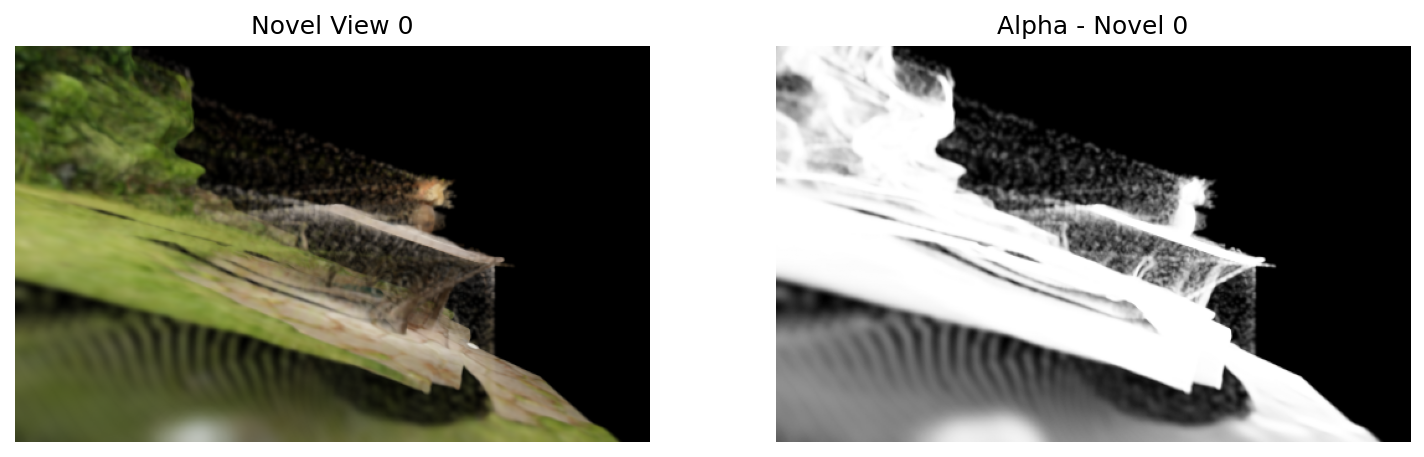
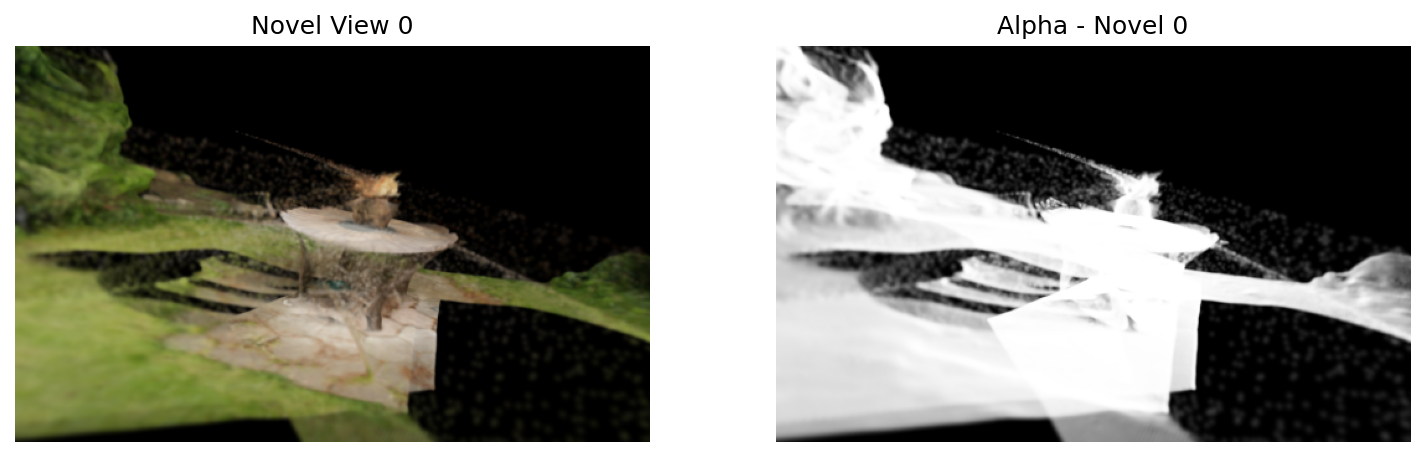
fix step1 & 2 optimization still not good but better

diff --git a/src/gaussian_trainer.py b/src/gaussian_trainer.py
@@ -91,7 +91,12 @@ class GaussianModel:
     def render_for_optim(self, w2c: torch.Tensor, K: torch.Tensor, H: int, W: int,
                           strategy: DefaultStrategy, strategy_state: dict, step: int,
                           bg_color: torch.Tensor | None = None) -> dict:
-        """Render with densification hooks for optimization."""
+        """Render with densification hooks for optimization (input views only).
+
+        Calls strategy.step_pre_backward to accumulate gradient statistics
+        for adaptive density control (splitting/cloning/pruning).
+        Only use this for input views with real ground truth.
+        """
         viewmats = w2c.unsqueeze(0).to(self.device)
         Ks = K.unsqueeze(0).to(self.device)
         backgrounds = bg_color.unsqueeze(0) if bg_color is not None else None
@@ -112,7 +117,7 @@ class GaussianModel:
             backgrounds=backgrounds,
         )
 
-        # Pre-backward hook
+        # Pre-backward hook for densification statistics
         strategy.step_pre_backward(self.params, self._optimizers, strategy_state, step, meta)
 
         return {
@@ -120,6 +125,40 @@ class GaussianModel:
             "alpha": render_alphas[0],
             "depth": render_colors[0, :, :, 3:4],
             "meta": meta,
+        }
+
+    def render_for_loss(self, w2c: torch.Tensor, K: torch.Tensor, H: int, W: int,
+                         bg_color: torch.Tensor | None = None) -> dict:
+        """Render with gradients but WITHOUT densification hooks (novel views).
+
+        Gradients flow through for loss computation, but do NOT influence
+        adaptive density control. Use this for novel views with pseudo GT
+        to prevent hallucinated content from driving Gaussian splitting/cloning.
+        """
+        viewmats = w2c.unsqueeze(0).to(self.device)
+        Ks = K.unsqueeze(0).to(self.device)
+        backgrounds = bg_color.unsqueeze(0) if bg_color is not None else None
+
+        render_colors, render_alphas, meta = rasterization(
+            means=self.params["means"],
+            quats=self.params["quats"],
+            scales=torch.exp(self.params["scales"]),
+            opacities=torch.sigmoid(self.params["opacities"]),
+            colors=self.params["colors"],
+            viewmats=viewmats,
+            Ks=Ks,
+            width=W, height=H,
+            sh_degree=None,
+            packed=True,
+            near_plane=0.01, far_plane=1000.0,
+            render_mode="RGB+D",
+            backgrounds=backgrounds,
+        )
+
+        return {
+            "image": render_colors[0, :, :, :3],
+            "alpha": render_alphas[0],
+            "depth": render_colors[0, :, :, 3:4],
         }
 
     def setup_optimizers(self, cfg: RI3DConfig) -> dict:
@@ -140,7 +179,8 @@ class GaussianModel:
             refine_stop_iter=cfg.densify_stop,
             refine_every=cfg.densify_interval,
             grow_grad2d=cfg.densify_grad_threshold,
-            verbose=False,
+            reset_every=cfg.densify_reset_every,
+            verbose=True,
         )
         self._strategy.check_sanity(self.params, self._optimizers)
         self._strategy_state = self._strategy.initialize_state(scene_scale=scene_scale)
@@ -246,7 +286,8 @@ def depth_correlation_loss(rendered_depth: torch.Tensor, mono_depth: torch.Tenso
 
 
 def reconstruction_loss(rendered: torch.Tensor, target: torch.Tensor,
-                         ssim_fn: SSIMLoss, lpips_fn: LPIPSLoss | None = None,
+                         ssim_fn: SSIMLoss | None = None,
+                         lpips_fn: LPIPSLoss | None = None,
                          cfg: RI3DConfig | None = None,
                          mask: torch.Tensor | None = None) -> torch.Tensor:
     """Combined reconstruction loss: L1 + SSIM + LPIPS.
@@ -254,6 +295,9 @@ def reconstruction_loss(rendered: torch.Tensor, target: torch.Tensor,
     Per the paper, mask M_α is applied element-wise to each loss term.
     For L1 this is straightforward. For SSIM/LPIPS (windowed losses),
     we apply the mask as a per-pixel weight on the loss maps.
+
+    If ssim_fn is None, returns L1-only loss (useful for novel views
+    where structural losses can amplify repair model hallucinations).
 
     Args:
         rendered, target: (H, W, 3) images in [0, 1]
@@ -273,21 +317,22 @@ def reconstruction_loss(rendered: torch.Tensor, target: torch.Tensor,
     else:
         l1 = F.l1_loss(rendered, target)
 
-    # SSIM and LPIPS operate on full images (windowed); masking zeros non-masked
-    # regions so they don't contribute meaningfully to the windowed loss
-    if mask is not None:
-        rendered_m = rendered * mask_3ch
-        target_m = target * mask_3ch
-    else:
-        rendered_m = rendered
-        target_m = target
+    loss = cfg.loss_l1_weight * l1
 
-    ssim = ssim_fn(rendered_m, target_m)
-    loss = cfg.loss_l1_weight * l1 + cfg.loss_ssim_weight * ssim
+    if ssim_fn is not None:
+        if mask is not None:
+            rendered_m = rendered * mask_3ch
+            target_m = target * mask_3ch
+        else:
+            rendered_m = rendered
+            target_m = target
 
-    if lpips_fn is not None:
-        lpips_val = lpips_fn(rendered_m, target_m)
-        loss = loss + cfg.loss_lpips_weight * lpips_val
+        ssim = ssim_fn(rendered_m, target_m)
+        loss = loss + cfg.loss_ssim_weight * ssim
+
+        if lpips_fn is not None:
+            lpips_val = lpips_fn(rendered_m, target_m)
+            loss = loss + cfg.loss_lpips_weight * lpips_val
 
     return loss
 

diff --git a/src/step6_stage1_optim.py b/src/step6_stage1_optim.py
@@ -152,7 +152,13 @@ def run_stage1(cfg: RI3DConfig):
     # Initialize model
     model = GaussianModel(gaussians_init, device)
     optimizers = model.setup_optimizers(cfg)
-    strategy, strategy_state = model.setup_strategy(cfg, scene_scale=1.0)
+
+    # Compute scene scale from camera positions (affects pruning thresholds)
+    cam_positions = poses[:, :3, 3]
+    scene_scale = (cam_positions - cam_positions.mean(dim=0)).norm(dim=1).mean().item()
+    scene_scale = max(scene_scale, 0.1)
+    print(f"  Scene scale: {scene_scale:.4f}")
+    strategy, strategy_state = model.setup_strategy(cfg, scene_scale=scene_scale)
 
     # Loss functions
     ssim_fn = SSIMLoss().to(device)
@@ -184,6 +190,7 @@ def run_stage1(cfg: RI3DConfig):
     print(f"\n=== Stage 1 Optimization ===")
     print(f"Input views: {n_images}, Novel views: {cfg.stage1_num_novel_views}")
     print(f"Max iters: {cfg.stage1_max_iters}, Refresh every: {cfg.stage1_refresh_interval}")
+    print(f"Densify: {cfg.densify_start}-{cfg.densify_stop}, reset every {cfg.densify_reset_every}")
 
     for step in tqdm(range(cfg.stage1_max_iters), desc="Stage 1"):
 
@@ -201,32 +208,30 @@ def run_stage1(cfg: RI3DConfig):
                         r["depth"].squeeze(-1), cfg
                     ).to(device)
 
-            # Save example renders (every other refresh)
-            if step % (cfg.stage1_refresh_interval * 2) == 0:
-                for j in range(min(3, cfg.stage1_num_novel_views)):
-                    fig, axes = plt.subplots(1, 3, figsize=(15, 5))
-                    with torch.no_grad():
-                        w2c = torch.linalg.inv(novel_c2w[j])
-                        r = model.render(w2c, K_avg, H, W)
-                    axes[0].imshow(r["image"].clamp(0,1).cpu().numpy())
-                    axes[0].set_title(f"Rendered (step {step})")
-                    axes[1].imshow(pseudo_gt[j].cpu().numpy())
-                    axes[1].set_title("Pseudo GT (repaired)")
-                    axes[2].imshow(r["alpha"].squeeze(-1).cpu().numpy(), cmap="gray")
-                    axes[2].set_title("Alpha")
-                    for ax in axes: ax.axis("off")
-                    fig.savefig(render_dir / f"step{step:05d}_novel{j}.png",
-                                dpi=120, bbox_inches="tight")
-                    plt.close(fig)
+            # Save example renders at every refresh
+            for j in range(min(3, cfg.stage1_num_novel_views)):
+                fig, axes = plt.subplots(1, 3, figsize=(15, 5))
+                with torch.no_grad():
+                    w2c = torch.linalg.inv(novel_c2w[j])
+                    r = model.render(w2c, K_avg, H, W)
+                axes[0].imshow(r["image"].clamp(0,1).cpu().numpy())
+                axes[0].set_title(f"Rendered (step {step})")
+                axes[1].imshow(pseudo_gt[j].cpu().numpy())
+                axes[1].set_title("Pseudo GT (repaired)")
+                axes[2].imshow(r["alpha"].squeeze(-1).cpu().numpy(), cmap="gray")
+                axes[2].set_title("Alpha")
+                for ax in axes: ax.axis("off")
+                fig.savefig(render_dir / f"step{step:05d}_novel{j}.png",
+                            dpi=120, bbox_inches="tight")
+                plt.close(fig)
 
         total_loss = torch.tensor(0.0, device=device)
 
-        # --- Input view loss ---
+        # --- Input view loss (with densification hooks) ---
         ref_idx = step % n_images
         w2c_ref = torch.linalg.inv(poses[ref_idx])
         K_ref = intrinsics[ref_idx]
 
-        # Use LPIPS only every 10 steps (expensive SqueezeNet forward pass)
         use_lpips = (step % 10 == 0)
         lpips_fn_or_none = lpips_fn if use_lpips else None
 
@@ -241,15 +246,17 @@ def run_stage1(cfg: RI3DConfig):
 
         total_loss = total_loss + ref_loss
 
-        # --- Novel view loss (if pseudo GT available) ---
+        # --- Novel view loss (WITHOUT densification hooks) ---
+        # Per paper Eq. 4.3: λ_j * M_α_j * L_rec(rendered_j, repaired_j)
+        # Uses render_for_loss (no strategy hooks) so pseudo GT gradients
+        # do NOT drive Gaussian splitting/cloning/pruning.
         if pseudo_gt[0] is not None:
             nov_idx = step % cfg.stage1_num_novel_views
             w2c_nov = torch.linalg.inv(novel_c2w[nov_idx])
 
-            result_nov = model.render_for_optim(w2c_nov, K_avg, H, W,
-                                                 strategy, strategy_state, step)
+            result_nov = model.render_for_loss(w2c_nov, K_avg, H, W)
 
-            # Opacity mask: only enforce loss in visible regions
+            # Opacity mask: only enforce loss in visible regions (M_α)
             alpha_mask = get_opacity_mask(result_nov["alpha"])  # (H, W)
             lambda_j = camera_weights[nov_idx]
 
@@ -260,7 +267,7 @@ def run_stage1(cfg: RI3DConfig):
             )
             total_loss = total_loss + lambda_j * nov_loss
 
-            # Opacity regularization: suppress opacity in missing background regions
+            # Opacity regularization: ||A ⊙ (1 - M_α) ⊙ M_b||₁
             bg_mask = cached_bg_masks[nov_idx]
             if bg_mask is not None:
                 opacity_reg = (

diff --git a/src/step8_stage2_optim.py b/src/step8_stage2_optim.py
@@ -159,8 +159,8 @@ def project_inpainted_to_3d(inpainted_image: torch.Tensor, missing_mask: torch.T
     if mask_flat.sum() == 0:
         return None
 
-    # Unproject missing pixels
-    pts = unproject_depth(fused, K.cpu(), c2w.cpu())  # (H*W, 3)
+    # Unproject missing pixels (all on CPU to avoid device mismatch)
+    pts = unproject_depth(fused.cpu(), K.cpu(), c2w.cpu())  # (H*W, 3)
     colors = inpainted_image.reshape(-1, 3).cpu()
 
     pts = pts[mask_flat.cpu()]
@@ -235,7 +235,12 @@ def run_stage2(cfg: RI3DConfig):
     # Initialize model from Stage 1
     model = GaussianModel(stage1_ckpt["gaussians"], device)
     optimizers = model.setup_optimizers(cfg)
-    strategy, strategy_state = model.setup_strategy(cfg, scene_scale=1.0)
+
+    # Compute scene scale from camera positions
+    cam_positions = poses[:, :3, 3]
+    scene_scale = (cam_positions - cam_positions.mean(dim=0)).norm(dim=1).mean().item()
+    scene_scale = max(scene_scale, 0.1)
+    strategy, strategy_state = model.setup_strategy(cfg, scene_scale=scene_scale)
 
     # Loss functions
     ssim_fn = SSIMLoss().to(device)
@@ -366,8 +371,7 @@ def run_stage2(cfg: RI3DConfig):
             nov_idx = step % cfg.stage2_num_novel_views
             w2c_nov = torch.linalg.inv(novel_c2w[nov_idx])
 
-            result_nov = model.render_for_optim(w2c_nov, K_avg, H, W,
-                                                 strategy, strategy_state, step)
+            result_nov = model.render_for_loss(w2c_nov, K_avg, H, W)
             lambda_j = camera_weights[nov_idx]
 
             # No visibility mask — enforce across entire image in Stage 2

diff --git a/src/config.py b/src/config.py
@@ -87,11 +87,12 @@ class RI3DConfig:
     plateau_threshold: float = 1e-4  # min relative improvement to continue
     plateau_min_iters: int = 1000   # minimum iters before allowing early stop
 
-    # 3DGS densification
+    # 3DGS densification (scaled for 4000-iter optimization)
     densify_start: int = 500
-    densify_stop: int = 3000
+    densify_stop: int = 2000
     densify_interval: int = 100
     densify_grad_threshold: float = 0.0002
+    densify_reset_every: int = 1000  # reset opacities to allow pruning
 
     # Checkpointing
     checkpoint_dir: Path = Path("outputs/checkpoints")
